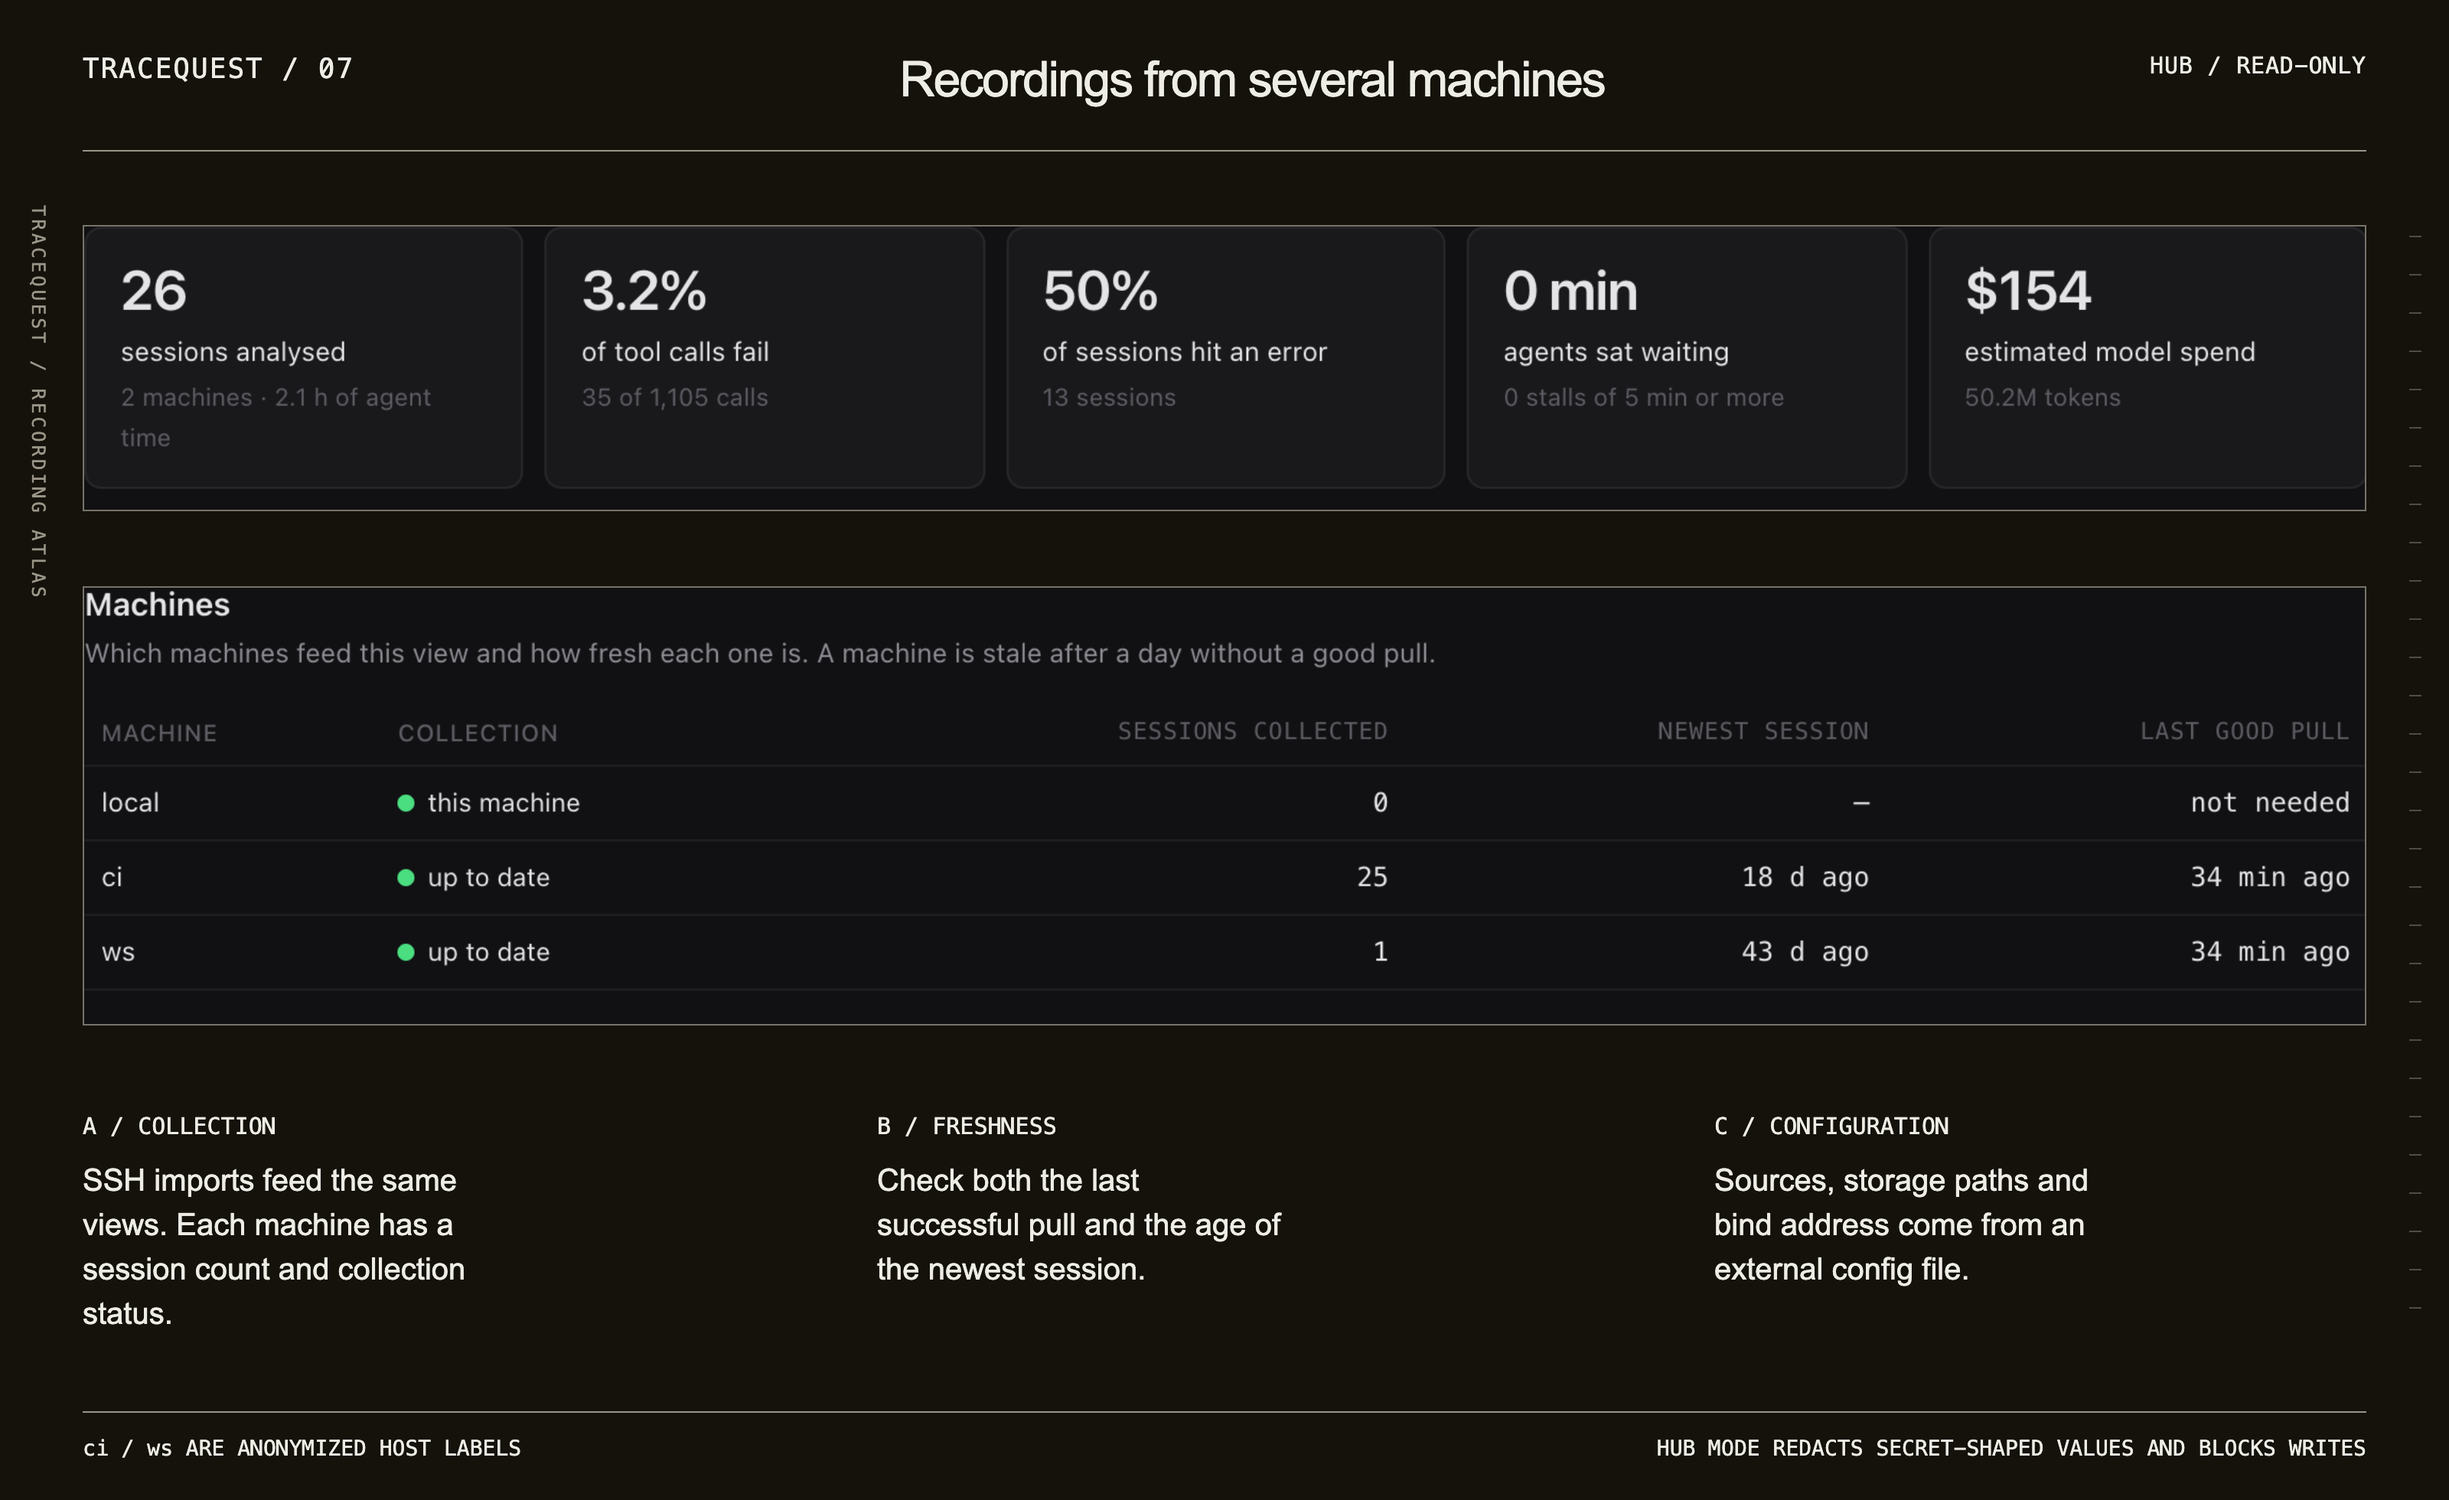
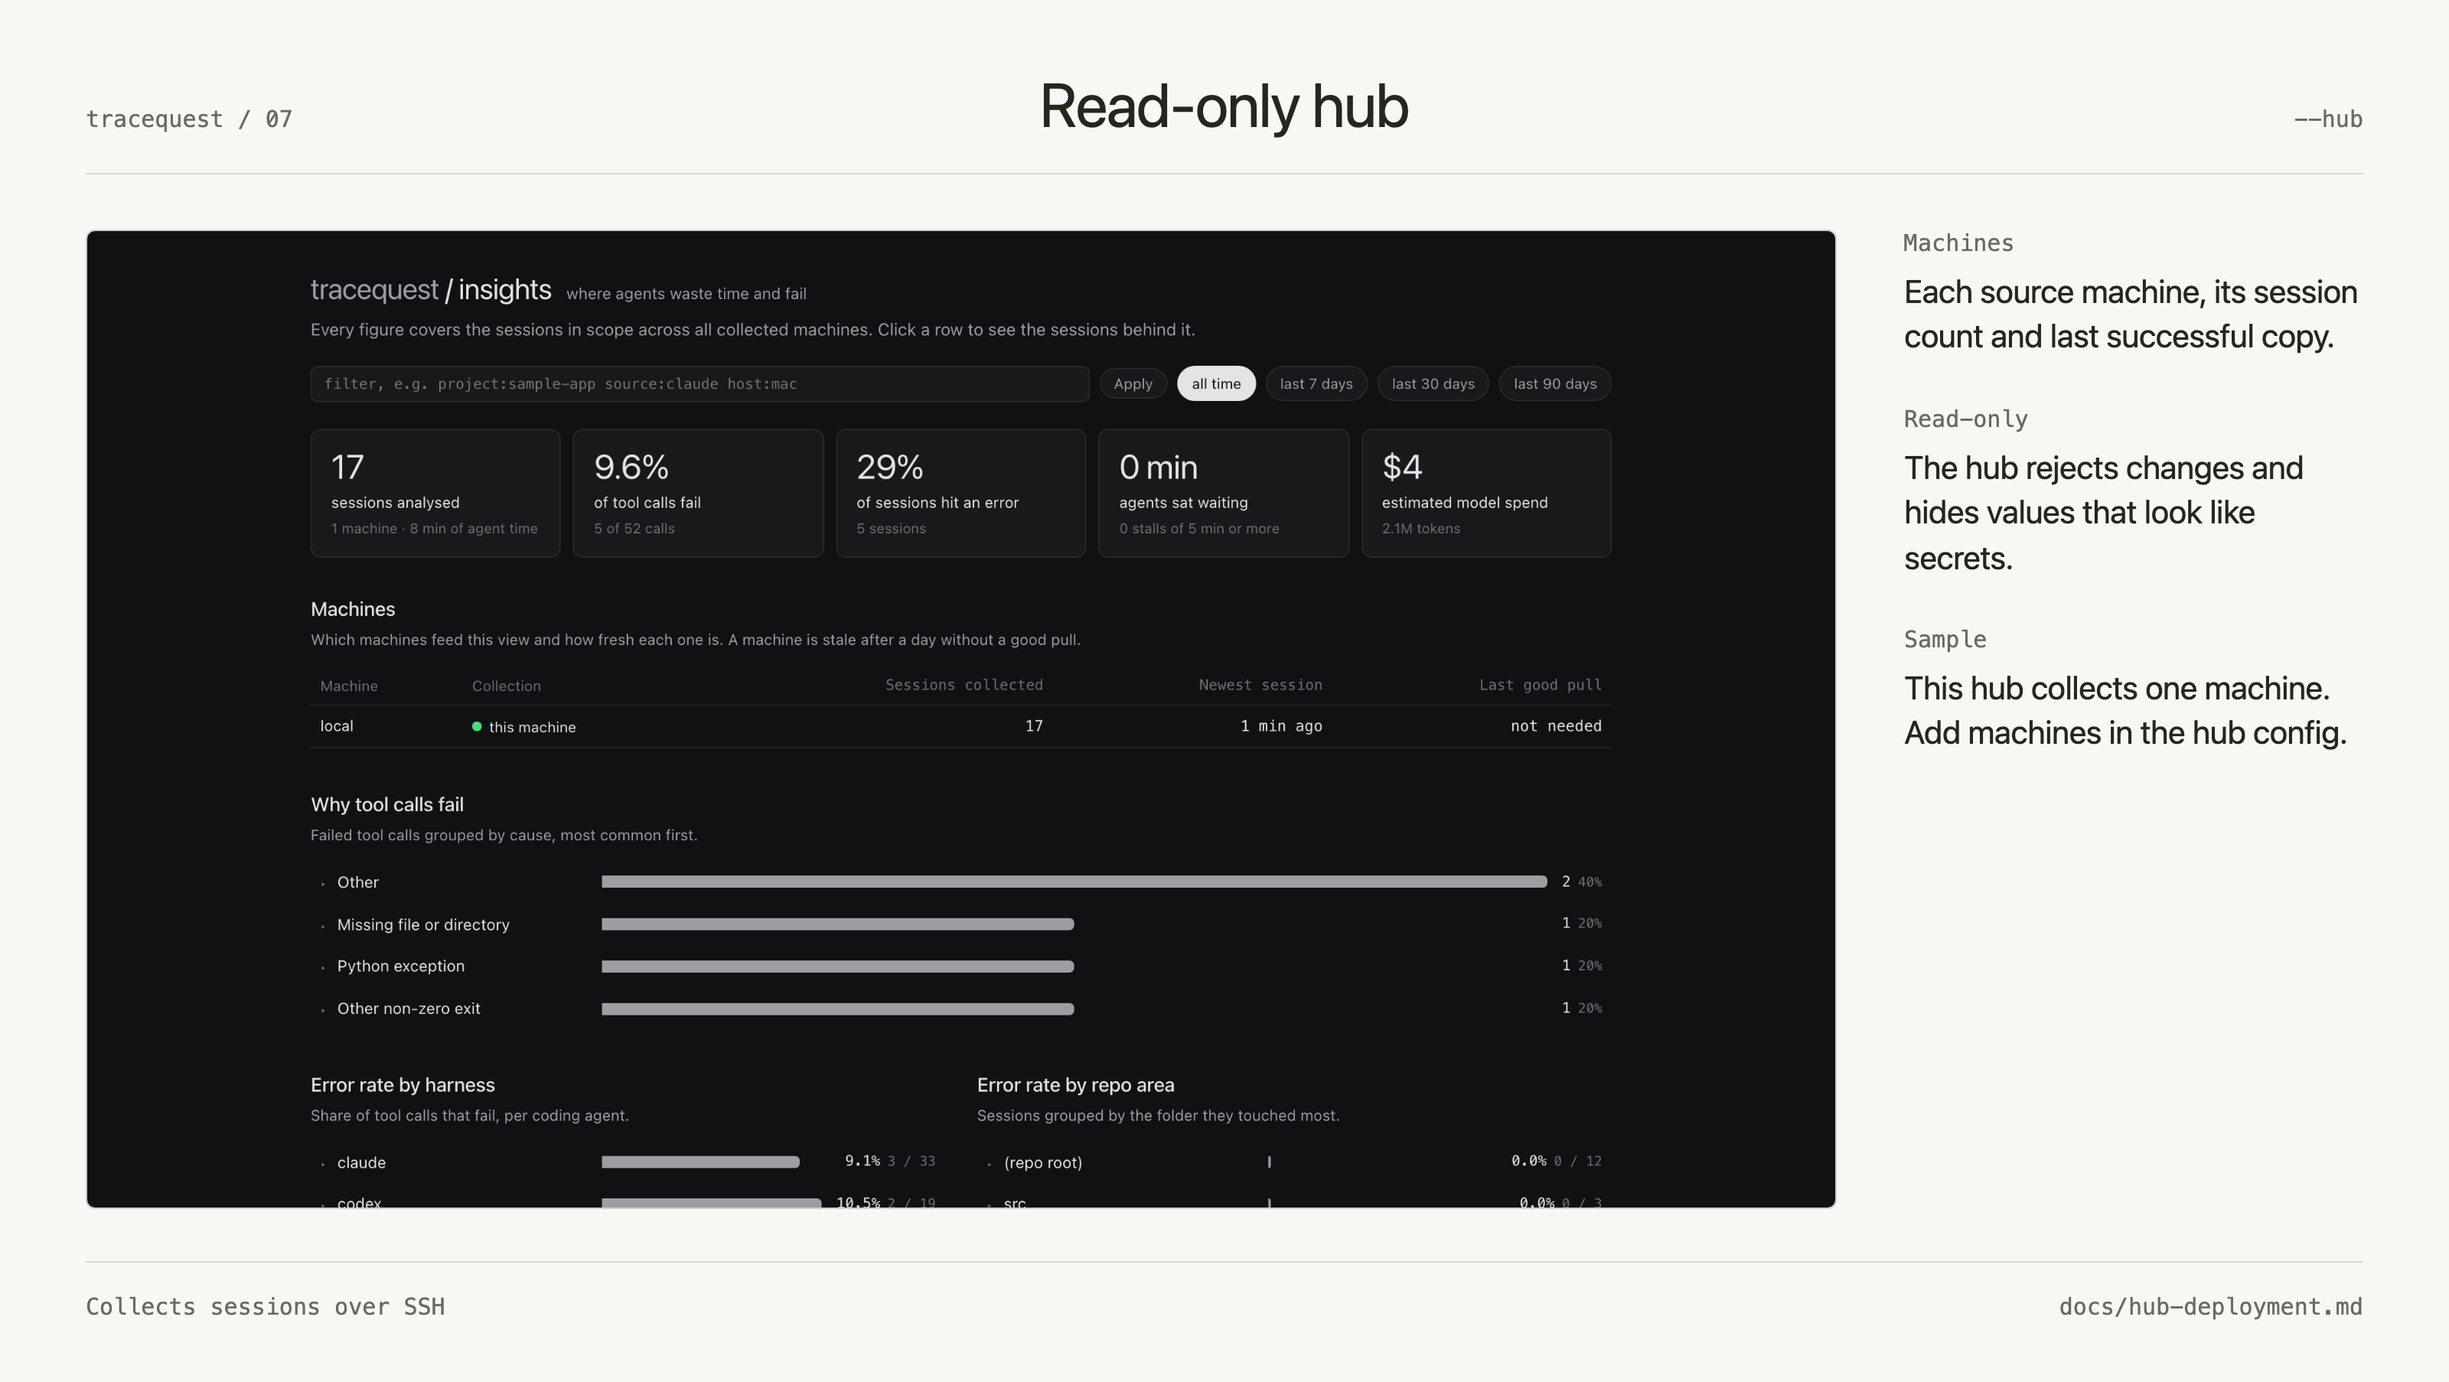
docs: plain README text and screenshots of the restyled UI

diff --git a/README.md b/README.md
@@ -1,109 +1,117 @@
 # tracequest
 
-![TraceQuest recording atlas: session history, failure classes and a turn-by-turn waveform from real Claude Code and Codex recordings](docs/assets/hero.png)
+![The TraceQuest session list, error breakdown and a per-turn token chart for one session](docs/assets/hero.png)
 
-TraceQuest reads coding-agent recordings and shows their conversations, tool calls,
-errors, activity and recorded token usage. Browse Claude Code, Codex CLI, Cursor,
-Droid/Factory, OpenCode and Grok CLI sessions. Import Cursor Cloud Agent recordings
-or collect sessions from other machines over SSH.
+TraceQuest is a local web app and CLI for reading coding-agent sessions. It shows
+each session's messages, tool calls, errors, timing and token usage. It reads
+sessions from Claude Code, Codex CLI, Cursor, Droid (Factory), OpenCode and Grok CLI.
+It can also import Cursor Cloud Agent sessions and copy sessions from other
+machines over SSH.
 
-[Try it](#try-it) · [Features](#features) · [Technical docs for your coding agent](docs/README.md)
+[Try it](#try-it) · [Features](#features) · [Documentation](docs/README.md)
 
-The images below show 26 real development recordings, anonymized and excerpted
-before capture. Names, machine labels, paths and credentials were redacted;
-recorded timestamps, tool outcomes and usage were retained. Cost figures are
-estimates from recorded usage and model prices, not subscription bills.
+The screenshots show 16 real Claude Code and Codex CLI sessions, recorded on six
+small sample projects made for these screenshots. One Codex session is also
+replayed as a running session to show live updates, so the lists count 17.
+Costs are estimated from token counts and model prices. They are not billing data.
 
 ## Features
 
-### Search and filter recordings
+### Search and filter sessions
 
-![A filter combining source:codex, errors greater than zero and search text returns 11 recordings; a magnified row shows its source, hash and prompt](docs/assets/browse.png)
+![The session list filtered to Codex sessions with errors, with the filter terms explained](docs/assets/browse.png)
 
-Search conversation text and filter by project, source, machine, model, tool,
-errors or age. The overview recalculates for the matching sessions.
+The session list searches message text. You can filter by project, source,
+machine, model, tool, error count and age. The summary row above the list shows
+totals for the sessions that match.
 
-**Open:** start the browser with `npm start`, choose **All sessions**, enter a filter
-such as `source:codex errors:>0 search`, and press **Enter**. From a source checkout,
-`node bin/tracequest.js search "cache invalidation"` searches from the terminal.
+**How to use it:** run `npm start`, open **All sessions**, type a filter such as
+`source:codex errors:>0 test` and press **Enter**. To search from the terminal,
+run `node bin/tracequest.js search "cache invalidation"`.
 [Search commands and filters](docs/cli-reference.md#cli-usage).
 
 ### Inspect a session
 
-![Activity and turn-by-turn views of one recording, with idle gaps, chapter boundaries, tool errors, retries and a self-fix](docs/assets/session.png)
+![A session's activity timeline and per-turn token chart, with chapter markers and a tool error](docs/assets/session.png)
 
-The activity timeline separates active work from idle gaps. The waveform shows
-token input and output by turn, with markers for chapters and tool errors.
-Chapters contain the original prompts, commands, outputs and retry details.
+The activity timeline shows when the agent was working and when it was idle. The
+token chart shows input and output tokens for each turn, with markers for chapter
+starts and tool errors. Each chapter lists the prompt, the commands the agent ran,
+their output and any retries.
 
-**Open:** open a recording, choose **view session**, and click a bar or chapter.
-`node bin/tracequest.js latest --open` opens a report for your latest session.
+**How to use it:** open a session and choose **view session**. Click a bar or a
+chapter to open it. `node bin/tracequest.js latest --open` opens a report for
+your most recent session.
 [Rendering and export options](docs/cli-reference.md#cli-usage).
 
-### Inspect failure patterns
+### Find out why tool calls fail
 
-![Insights from 26 recordings: 35 failed tool calls out of 1,105, with missing-file failures expanded to show their source recordings](docs/assets/insights.png)
+![Insights for 17 sessions: failed tool calls grouped by cause, and error rates per agent](docs/assets/insights.png)
 
-Insights groups failed tool calls by cause and shows error rates, retries, loops,
-active time and estimated cost. Expand a row to read the failed output and open
-its source session. Filters scope the analysis by project, source, machine or time.
-Analysis runs locally without model calls.
+Insights groups failed tool calls by cause. It also shows error rates, retries,
+loops, active time and estimated cost. Expand a row to see the failed output and
+a link to the session it came from. You can limit the figures to a project,
+source, machine or time range. The analysis runs on your machine and makes no
+model calls.
 
-**Open:** visit `/insights` on your TraceQuest server.
+**How to use it:** open `/insights` on your TraceQuest server.
 `node bin/tracequest.js insights --refresh` updates the analysis and prints a
 summary in the terminal. [Insights options](docs/cli-reference.md#cli-usage).
 
 ### Compare two sessions
 
-![Two Codex session reports with recorded duration, turns, tool calls, token usage, cache hits, errors and retries side by side](docs/assets/compare.png)
+![Two Codex sessions side by side: duration, turns, tool calls, tokens, cache hits, errors and retries](docs/assets/compare.png)
 
-Compare duration, tokens, cache usage, errors, retries, tools and chapter quality.
-Each column links to its full session. The recordings shown are different tasks;
-the comparison describes their recorded work.
+The compare view puts two sessions side by side. It shows duration, tokens,
+cache use, errors, retries, tool counts and chapter outcomes. Each column links
+to the full session.
 
-**Open:** in **All sessions**, select two row checkboxes and choose **Compare**.
-[Browser and session commands](docs/cli-reference.md#cli-usage).
+**How to use it:** in **All sessions**, tick the checkboxes of two sessions and
+choose **Compare**. [Browser and session commands](docs/cli-reference.md#cli-usage).
 
-### Read, launch and continue conversations
+### Read, start and continue conversations
 
-![The conversation dashboard beside the new-run form for selecting an installed agent, working directory and prompt](docs/assets/runs.png)
+![A Codex session open in the conversation view while it is still running](docs/assets/runs.png)
 
-Read recorded messages and tool output in the conversation view. Launch an
-installed agent from **+ New run**, send follow-ups, or continue supported
-conversations. Launching and continuing runs requires tmux. The form shown is
-unsubmitted; the conversation is a recorded session.
+The conversation view shows a session's messages and tool output, and updates
+while the agent is still working. **+ New run** starts an installed agent in a
+directory you choose. You can send follow-up messages to runs started from
+TraceQuest and continue supported sessions. Starting and continuing runs needs
+tmux.
 
-**Open:** run `npm start` and choose a conversation or **+ New run**.
-[Supported agents, continuation and setup](docs/cli-reference.md#launching-agent-runs).
+**How to use it:** run `npm start` and choose a session or **+ New run**.
+[Supported agents and setup](docs/cli-reference.md#launching-agent-runs).
 
-### Export reports and prepare handoffs
+### Export reports and write handoffs
 
-![A downloaded HTML report with print, Markdown, export and share controls, recorded usage and chapter outcomes](docs/assets/reports.png)
+![An exported HTML session report with print, Markdown, export and share buttons](docs/assets/reports.png)
 
-**Export** downloads an HTML report with its timeline and chapter navigation.
-**Markdown** exports session text. The `handoff` command searches recordings and
-returns Markdown snippets with commands for inspecting the matching sessions.
+**Export** saves a session as a single HTML file with its timeline and chapters.
+**Markdown** saves the session text. The `handoff` command searches your sessions
+and prints Markdown snippets, each with the commands to open the matching session.
 
-**Run:** open a session and choose **Export** or **Markdown**, or run
-`node bin/tracequest.js handoff "cache invalidation" --limit 5` from the checkout.
+**How to use it:** open a session and choose **Export** or **Markdown**, or run
+`node bin/tracequest.js handoff "cache invalidation" --limit 5` in the checkout.
 [Handoff and sharing options](docs/cli-reference.md#cli-usage).
 
 ### Collect sessions from several machines
 
-![A read-only hub showing analyzed recordings and collection health for two anonymized machines, with session counts and last successful pulls](docs/assets/hub.png)
+![A read-only hub listing each machine with its session count and last successful copy](docs/assets/hub.png)
 
-Collect recordings over SSH into a read-only hub. The Machines table shows each
-source's session count, newest recording, collection status and last successful
-pull. An external config file selects sources, archive paths and server address.
+A hub is a read-only TraceQuest server that copies sessions from other machines
+over SSH. The Machines table shows each machine's session count, newest session,
+collection status and last successful copy. A config file lists the machines,
+the folders to copy and the address the server listens on.
 
-**Run:** follow the [hub deployment guide](docs/hub-deployment.md) to create a
-config, import recordings and start the hub. The guide includes a local sample
-for a fresh machine. Hub mode blocks writes and redacts secret-shaped values;
-network access still needs protection because recordings contain conversation text.
+**How to use it:** follow the [hub deployment guide](docs/hub-deployment.md) to
+write a config, import sessions and start the hub. The guide includes a local
+example you can run on one machine. A hub rejects changes and hides values that
+look like secrets. Sessions still contain conversation text, so restrict who can
+reach the hub on your network.
 
 ## Try it
 
-Requires **Node.js 22.5+** and **git**.
+You need **Node.js 22.5 or later** and **git**.
 
 ```bash
 git clone https://github.com/viktor-com/tracequest.git
@@ -112,11 +120,10 @@ npm install
 npm run demo
 ```
 
-Open [localhost:7777](http://localhost:7777) to browse two bundled synthetic sample
-sessions. The demo needs no agent account or API key. Its sample sessions differ
-from the anonymized recordings illustrated above.
+Open [localhost:7777](http://localhost:7777). The demo shows two small sample
+sessions that ship with the repository. It needs no agent account or API key.
 
-To browse your own recordings, stop the demo with **Ctrl-C**, then run:
+To see your own sessions, stop the demo with **Ctrl-C** and run:
 
 ```bash
 npm start
@@ -126,17 +133,19 @@ npm start
 
 ## Data and network access
 
-Browsing and analysis read local files. TraceQuest sends no telemetry. Sharing,
-remote imports and optional usage-limit checks contact their services when
-requested. Standup summaries and launched agents use your configured agent.
+Browsing and analysis only read local files. TraceQuest sends no telemetry.
+It contacts other services only when you ask it to: sharing a session, importing
+remote sessions, or checking plan usage limits. Standup summaries and agent runs
+use the agent you have configured.
 
-The server listens on localhost by default and has no built-in login. Read the
+The server listens on localhost and has no login. Read the
 [deployment guide](docs/hub-deployment.md#access) and [security notes](SECURITY.md)
-before exposing it to a network.
+before making it reachable from other machines.
 
 ## Documentation
 
-**[Technical docs for your coding agent](docs/README.md)** — command reference,
-configuration, source paths, live-run APIs, deployment and development guides.
+**[Documentation](docs/README.md)**: command reference, configuration, session
+locations, live-run API, deployment and development guides. It is written so
+that a coding agent can follow it too.
 
 [Contribute](CONTRIBUTING.md) · [Report a bug](https://github.com/viktor-com/tracequest/issues) · [Changelog](CHANGELOG.md) · [MIT License](LICENSE)
